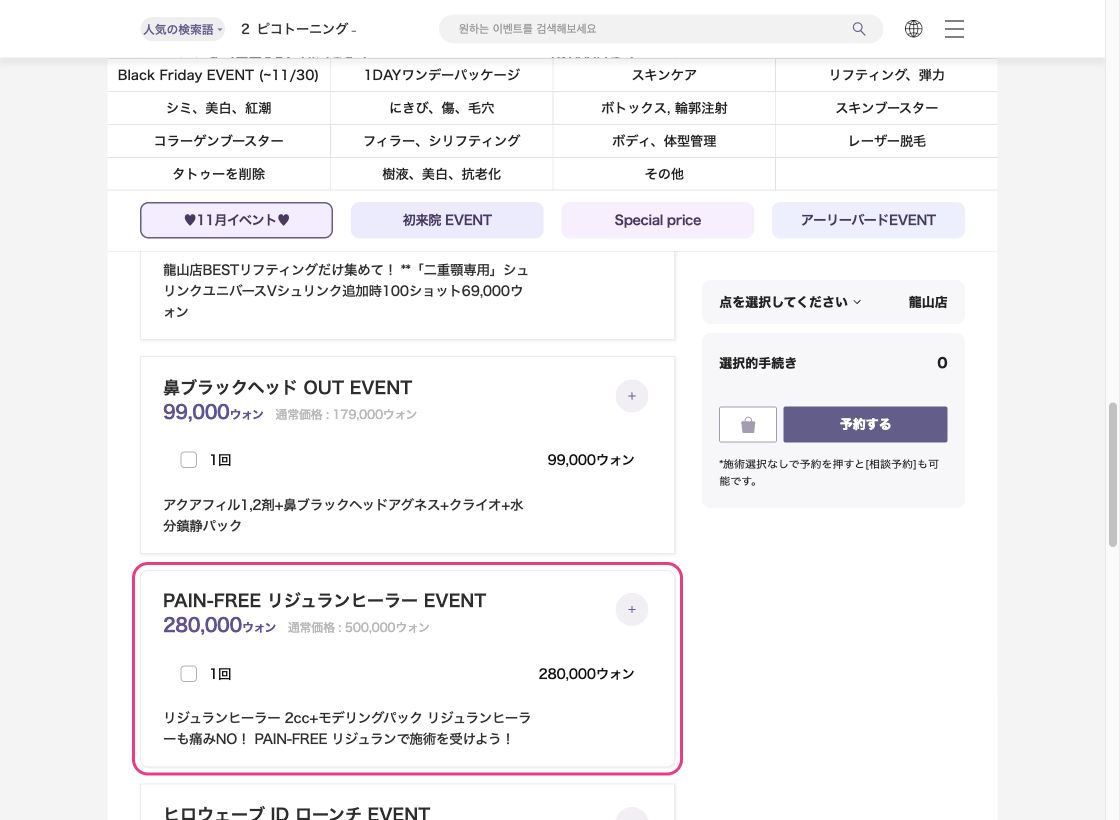
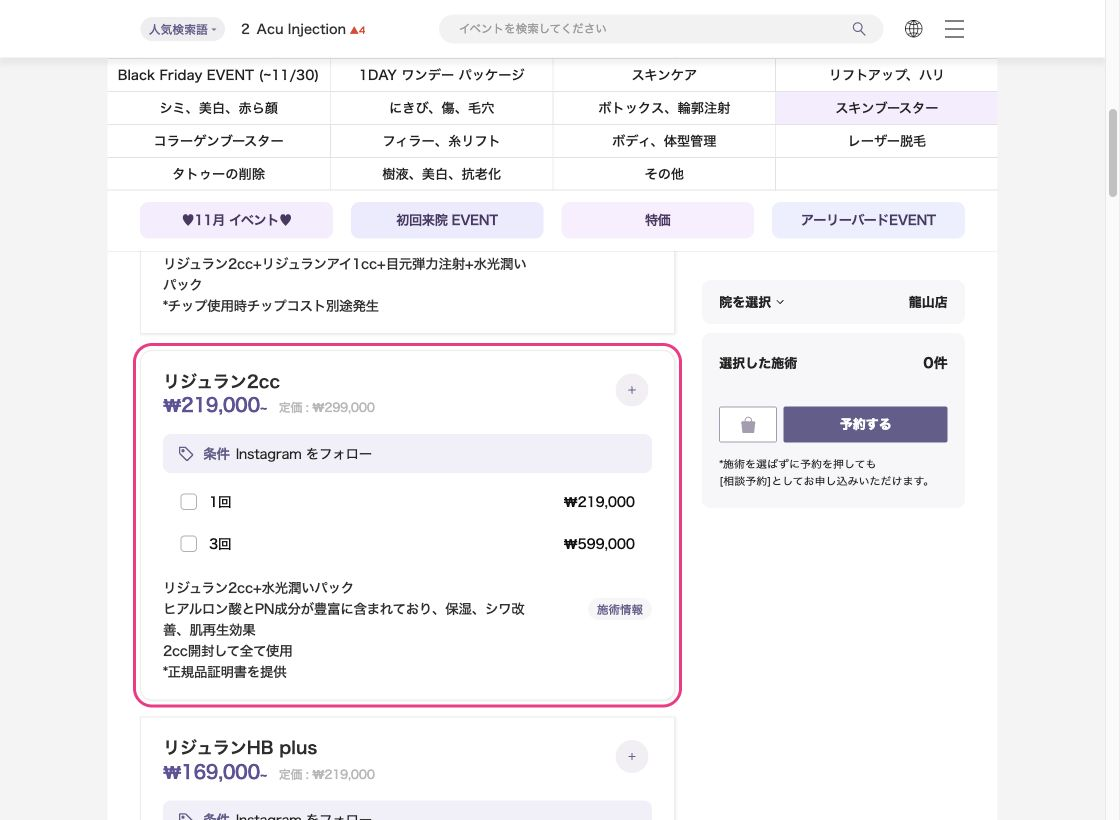
feat(proofs): complete 28/28 Beauty Lounge KO/JA proof captures across all 7 branches

diff --git a/src/data/official-proofs.ts b/src/data/official-proofs.ts
@@ -5305,14 +5305,14 @@ export const OFFICIAL_MENU_PROOFS: Record<string, OfficialMenuProof> = {
     sourceUrl: "https://beautyloungeclinic.com/",
     menuId: "rejuran-2cc",
     scope: "branch",
-    priceUrl: "https://www.beautyloungeclinic.com/ko/events?branch=yongsan&cat=evt-926",
+    priceUrl: "https://www.beautyloungeclinic.com/ko/events?branch=yongsan&cat=skinbooster",
     imageFile: "beautylounge-yongsan-rejuran-2cc.jpg",
     imageFileJa: "beautylounge-yongsan-rejuran-2cc.jpg",
-    verifiedKrw: 280000,
-    matchedText: "PAIN-FREE 리쥬란힐러 EVENT 280,000원 기존가 : 500,000원 1회 280,000원 리쥬란힐러 2cc + 모델링팩 리쥬란힐러도 통증 NO! PAIN-FREE 리쥬란으로 시술받자!",
+    verifiedKrw: 219000,
+    matchedText: "리쥬란 2cc 219,000원~ 기존가 : 299,000원 조건 카카오톡 친구 추가 1회 219,000원 3회 599,000원 리쥬란2cc + 물광촉촉팩 히알루론산과 PN성분이 풍부하게 함유되어 보습,주름개선,피부재생 효과 2cc 개봉하여 모두 사용 *정품인증서 제공 시술 정보",
     capturedDate: "2026-11-23",
     domainLabel: "beautyloungeclinic.com",
-    priceUrlJa: "https://www.beautyloungeclinic.com/ja/events?branch=yongsan&cat=collagen",
+    priceUrlJa: "https://www.beautyloungeclinic.com/ja/events?branch=yongsan&cat=skinbooster",
     domainLabelJa: "beautyloungeclinic.com"
   },
   "beautylounge-jamsil::rejuran-2cc": {
@@ -5549,14 +5549,14 @@ export const OFFICIAL_MENU_PROOFS: Record<string, OfficialMenuProof> = {
     sourceUrl: "https://beautyloungeclinic.com/",
     menuId: "potenza",
     scope: "branch",
-    priceUrl: "https://www.beautyloungeclinic.com/ko/events?branch=daechi&cat=evt-69",
+    priceUrl: "https://www.beautyloungeclinic.com/ko/events?branch=daechi&cat=evt-765",
     imageFile: "beautylounge-daechi-potenza.jpg",
     imageFileJa: "beautylounge-daechi-potenza.jpg",
-    verifiedKrw: 329000,
-    matchedText: "포텐자 다이아(DIA) 리프팅 329,000원~",
+    verifiedKrw: 189000,
+    matchedText: "포텐자 니들RF 189,000원~ 기존가 : 229,000원 조건 카카오톡 친구 추가 1회 189,000원 3회 499,000원 미세니들을 통해 진피내에서 직접 고주파 에너지를 전달, 모공, 탄력, 피부톤, 기미를 효과적으로 개선합니다.",
     capturedDate: "2026-11-23",
     domainLabel: "beautyloungeclinic.com",
-    priceUrlJa: "https://www.beautyloungeclinic.com/ja/events?branch=daechi",
+    priceUrlJa: "https://www.beautyloungeclinic.com/ja/events?branch=daechi&cat=evt-765",
     domainLabelJa: "beautyloungeclinic.com"
   },
   "beautylounge-daechi::jaw-botox": {
@@ -6028,6 +6028,174 @@ export const OFFICIAL_MENU_PROOFS: Record<string, OfficialMenuProof> = {
     matchedText: "턱 보톡스 근육을 직접 만져보고 용량 정하는 턱보톡스 19,000 ~",
     capturedDate: "2026-11-23",
     domainLabel: "ydp.drdclinic.co.kr"
+  },
+  "beautylounge-daechi::rejuran-2cc": {
+    sourceUrl: "https://beautyloungeclinic.com/",
+    menuId: "rejuran-2cc",
+    scope: "branch",
+    priceUrl: "https://www.beautyloungeclinic.com/ko/events?branch=daechi&cat=skinbooster",
+    imageFile: "beautylounge-daechi-rejuran-2cc.jpg",
+    imageFileJa: "beautylounge-daechi-rejuran-2cc.jpg",
+    verifiedKrw: 219000,
+    matchedText: "리쥬란 180,000원~ 기존가 : 200,000원 조건 카카오톡 친구 추가 리쥬란 아이 1cc 180,000원 2cc 1회 219,000원 2cc 3회 640,000원 리쥬란 + 물광촉촉팩 히알루론산과 PN성분이 풍부하게 함유되어 보습,주름개선,피부재생 효과 더마샤인 포함 가격 시술 정보",
+    capturedDate: "2026-11-23",
+    domainLabel: "beautyloungeclinic.com",
+    priceUrlJa: "https://www.beautyloungeclinic.com/ja/events?branch=daechi&cat=skinbooster",
+    domainLabelJa: "beautyloungeclinic.com"
+  },
+  "beautylounge-daechi::shrink-300": {
+    sourceUrl: "https://beautyloungeclinic.com/",
+    menuId: "shrink-300",
+    scope: "branch",
+    priceUrl: "https://www.beautyloungeclinic.com/ko/events?branch=daechi&cat=evt-69",
+    imageFile: "beautylounge-daechi-shrink-300.jpg",
+    imageFileJa: "beautylounge-daechi-shrink-300.jpg",
+    verifiedKrw: 159000,
+    matchedText: "슈링크유니버스 159,000원~ 기존가 : 190,000원 조건 카카오톡 친구 추가 300샷 1회 159,000원 300샷 3회 439,000원 600샷 1회 299,000원 600샷 3회 869,000원 슈링크리프팅 + LED + 수분진정팩 통증은 줄고, 효과는 강력해진 슈링크유니버스 울트라F : 선타입, 빈틈없는 리프팅 부스터 : 원타입, 팔자,눈가 등 굴곡진 부위",
+    capturedDate: "2026-11-23",
+    domainLabel: "beautyloungeclinic.com",
+    priceUrlJa: "https://www.beautyloungeclinic.com/ja/events?branch=daechi&cat=evt-69",
+    domainLabelJa: "beautyloungeclinic.com"
+  },
+  "beautylounge-myeongdong::rejuran-2cc": {
+    sourceUrl: "https://beautyloungeclinic.com/",
+    menuId: "rejuran-2cc",
+    scope: "branch",
+    priceUrl: "https://www.beautyloungeclinic.com/ko/events?branch=myeongdong&cat=skinbooster",
+    imageFile: "beautylounge-myeongdong-rejuran-2cc.jpg",
+    imageFileJa: "beautylounge-myeongdong-rejuran-2cc.jpg",
+    verifiedKrw: 199000,
+    matchedText: "리쥬란 (REJURAN) 2cc 199,000원~ 기존가 : 279,000원 1회 199,000원 3회 579,000원 리쥬란2cc + 물광촉촉팩 히알루론산과 PN성분이 풍부하게 함유되어 보습,주름개선,피부재생 효과 ✔눈앞 2cc 개봉하여 모두 사용 시술 정보",
+    capturedDate: "2026-11-23",
+    domainLabel: "beautyloungeclinic.com",
+    priceUrlJa: "https://www.beautyloungeclinic.com/ja/events?branch=myeongdong&cat=skinbooster",
+    domainLabelJa: "beautyloungeclinic.com"
+  },
+  "beautylounge-myeongdong::shrink-300": {
+    sourceUrl: "https://beautyloungeclinic.com/",
+    menuId: "shrink-300",
+    scope: "branch",
+    priceUrl: "https://www.beautyloungeclinic.com/ko/events?branch=myeongdong&cat=evt-69",
+    imageFile: "beautylounge-myeongdong-shrink-300.jpg",
+    imageFileJa: "beautylounge-myeongdong-shrink-300.jpg",
+    verifiedKrw: 139000,
+    matchedText: "슈링크유니버스 129,000원~ 기존가 : 180,000원 300샷 1회 139,000원 300샷 3회 399,000원 600샷 1회 259,000원 부스터 300샷 129,000원 울트라 600샷 + 부스터 300샷 + 오로라앰플 390,000원 추가 옵션 오로라앰플5cc 추가 +25,000원 슈링크유니버스 리프팅 + LED + 수분진정팩 통증은 줄고, 효과는 강력해진 슈링크유니버스 울트라",
+    capturedDate: "2026-11-23",
+    domainLabel: "beautyloungeclinic.com",
+    priceUrlJa: "https://www.beautyloungeclinic.com/ja/events?branch=myeongdong&cat=evt-69",
+    domainLabelJa: "beautyloungeclinic.com"
+  },
+  "beautylounge-bangbae::rejuran-2cc": {
+    sourceUrl: "https://beautyloungeclinic.com/",
+    menuId: "rejuran-2cc",
+    scope: "branch",
+    priceUrl: "https://www.beautyloungeclinic.com/ko/events?branch=bangbae&cat=evt-821",
+    imageFile: "beautylounge-bangbae-rejuran-2cc.jpg",
+    imageFileJa: "beautylounge-bangbae-rejuran-2cc.jpg",
+    verifiedKrw: 180000,
+    matchedText: "리쥬란 2cc 180,000원 방배점 1회 체험",
+    capturedDate: "2026-11-23",
+    domainLabel: "beautyloungeclinic.com",
+    priceUrlJa: "https://www.beautyloungeclinic.com/ja/events?branch=bangbae&cat=evt-821",
+    domainLabelJa: "beautyloungeclinic.com"
+  },
+  "beautylounge-bangbae::shrink-300": {
+    sourceUrl: "https://beautyloungeclinic.com/",
+    menuId: "shrink-300",
+    scope: "branch",
+    priceUrl: "https://www.beautyloungeclinic.com/ko/events?branch=bangbae&cat=evt-590",
+    imageFile: "beautylounge-bangbae-shrink-300.jpg",
+    imageFileJa: "beautylounge-bangbae-shrink-300.jpg",
+    verifiedKrw: 109000,
+    matchedText: "슈링크유니버스 109,000원~ 기존가 : 190,000원 조건 카카오톡 친구 추가 300샷 1회 109,000원 300샷 3회 289,000원 600샷 1회 209,000원 울트라200샷+부스터300샷 179,000원 슈링크리프팅+LED+물광촉촉팩 통증은 줄고, 효과는 강력해진 슈링크유니버스 울트라F : 선타입, 빈틈없는 리프팅 부스터 : 원타입, 팔자,눈가 등 굴곡진 부위 오로라앰플 : ",
+    capturedDate: "2026-11-23",
+    domainLabel: "beautyloungeclinic.com",
+    priceUrlJa: "https://www.beautyloungeclinic.com/ja/events?branch=bangbae&cat=evt-590",
+    domainLabelJa: "beautyloungeclinic.com"
+  },
+  "beautylounge-bangbae::potenza": {
+    sourceUrl: "https://beautyloungeclinic.com/",
+    menuId: "potenza",
+    scope: "branch",
+    priceUrl: "https://www.beautyloungeclinic.com/ko/events?branch=bangbae&cat=evt-821",
+    imageFile: "beautylounge-bangbae-potenza.jpg",
+    imageFileJa: "beautylounge-bangbae-potenza.jpg",
+    verifiedKrw: 109000,
+    matchedText: "포텐자 니들RF 109,000원 방배점 1회 체험",
+    capturedDate: "2026-11-23",
+    domainLabel: "beautyloungeclinic.com",
+    priceUrlJa: "https://www.beautyloungeclinic.com/ja/events?branch=bangbae&cat=evt-821",
+    domainLabelJa: "beautyloungeclinic.com"
+  },
+  "beautylounge-yongsan::shrink-300": {
+    sourceUrl: "https://beautyloungeclinic.com/",
+    menuId: "shrink-300",
+    scope: "branch",
+    priceUrl: "https://www.beautyloungeclinic.com/ko/events?branch=yongsan&cat=evt-109",
+    imageFile: "beautylounge-yongsan-shrink-300.jpg",
+    imageFileJa: "beautylounge-yongsan-shrink-300.jpg",
+    verifiedKrw: 129000,
+    matchedText: "슈링크유니버스 79,000원~ 기존가 : 99,000원 300샷 129,000원 600샷 239,000원 울트라300샷+부스터200샷 210,000원 아이슈링크 100샷 79,000원 슈링크리프팅 + LED + 수분진정팩 통증은 줄고, 효과는 강력해진 슈링크유니버스 울트라F : 선타입, 빈틈없는 리프팅 부스터 : 원타입, 팔자,눈가 등 굴곡진 부위",
+    capturedDate: "2026-11-23",
+    domainLabel: "beautyloungeclinic.com",
+    priceUrlJa: "https://www.beautyloungeclinic.com/ja/events?branch=yongsan&cat=evt-109",
+    domainLabelJa: "beautyloungeclinic.com"
+  },
+  "beautylounge-yongsan::potenza": {
+    sourceUrl: "https://beautyloungeclinic.com/",
+    menuId: "potenza",
+    scope: "branch",
+    priceUrl: "https://www.beautyloungeclinic.com/ko/events?branch=yongsan&cat=evt-444",
+    imageFile: "beautylounge-yongsan-potenza.jpg",
+    imageFileJa: "beautylounge-yongsan-potenza.jpg",
+    verifiedKrw: 169000,
+    matchedText: "포텐자 니들RF 169,000원~ 기존가 : 199,000원 조건 카카오톡 친구 추가 1회 169,000원 3회 439,000원 미세니들을 통해 진피내에서 직접 고주파 에너지를 전달, 모공, 탄력, 피부톤, 기미를 효과적으로 개선합니다. 포텐자 니들RF + 크라이오 + LED + 물광촉촉팩",
+    capturedDate: "2026-11-23",
+    domainLabel: "beautyloungeclinic.com",
+    priceUrlJa: "https://www.beautyloungeclinic.com/ja/events?branch=yongsan&cat=evt-444",
+    domainLabelJa: "beautyloungeclinic.com"
+  },
+  "beautylounge-hongdae::shrink-300": {
+    sourceUrl: "https://beautyloungeclinic.com/",
+    menuId: "shrink-300",
+    scope: "branch",
+    priceUrl: "https://www.beautyloungeclinic.com/ko/events?branch=hongdae&cat=evt-69",
+    imageFile: "beautylounge-hongdae-shrink-300.jpg",
+    imageFileJa: "beautylounge-hongdae-shrink-300.jpg",
+    verifiedKrw: 129000,
+    matchedText: "슈링크유니버스 119,000원~ 기존가 : 180,000원 300샷 1회 129,000원 300샷 3회 370,000원 600샷 1회 249,000원 부스터 300샷 119,000원 울트라 600샷 + 부스터 300샷 + 오로라앰플 390,000원 추가 옵션 오로라앰플5cc 추가 +25,000원 슈링크유니버스 리프팅 + LED + 수분진정팩 통증은 줄고, 효과는 강력해진 슈링크유니버스 울트라",
+    capturedDate: "2026-11-23",
+    domainLabel: "beautyloungeclinic.com",
+    priceUrlJa: "https://www.beautyloungeclinic.com/ja/events?branch=hongdae&cat=evt-69",
+    domainLabelJa: "beautyloungeclinic.com"
+  },
+  "beautylounge-myeongdong::potenza": {
+    sourceUrl: "https://beautyloungeclinic.com/",
+    menuId: "potenza",
+    scope: "branch",
+    priceUrl: "https://www.beautyloungeclinic.com/ko/reservation?branch=myeongdong",
+    imageFile: "beautylounge-myeongdong-potenza.jpg",
+    imageFileJa: "beautylounge-myeongdong-potenza.jpg",
+    verifiedKrw: 199000,
+    matchedText: "포텐자 199,000원~ 옵션 종류 / 용량 선택 니들RF 3회 539,000원 니들RF 1회 199,000원",
+    capturedDate: "2026-11-23",
+    domainLabel: "beautyloungeclinic.com",
+    priceUrlJa: "https://www.beautyloungeclinic.com/ja/reservation?branch=myeongdong",
+    domainLabelJa: "beautyloungeclinic.com"
+  },
+  "beautylounge-hongdae::potenza": {
+    sourceUrl: "https://beautyloungeclinic.com/",
+    menuId: "potenza",
+    scope: "branch",
+    priceUrl: "https://www.beautyloungeclinic.com/ko/reservation?branch=hongdae",
+    imageFile: "beautylounge-hongdae-potenza.jpg",
+    imageFileJa: "beautylounge-hongdae-potenza.jpg",
+    verifiedKrw: 199000,
+    matchedText: "포텐자 199,000원~ 옵션 종류 / 용량 선택 니들RF 3회 539,000원 니들RF 1회 199,000원",
+    capturedDate: "2026-11-23",
+    domainLabel: "beautyloungeclinic.com",
+    priceUrlJa: "https://www.beautyloungeclinic.com/ja/reservation?branch=hongdae",
+    domainLabelJa: "beautyloungeclinic.com"
   }
 };
 

diff --git a/src/lib/clinic-helpers.test.ts b/src/lib/clinic-helpers.test.ts
@@ -462,6 +462,23 @@ test('zero wrong-branch screenshots, strict branch-URL mapping, zero orphan imag
 
   assert.ok(check('uni-mokdong', 'jaw-botox').priceUrl.includes('mokuni114.co.kr'));
   assert.ok(check('beautylounge-hongdae', 'jaw-botox').priceUrl.includes('branch=hongdae'));
+  for (const branch of ['gangnam', 'daechi', 'myeongdong', 'bangbae', 'yongsan', 'jamsil', 'hongdae'] as const) {
+    const pid = `beautylounge-${branch}`;
+    for (const menuId of ['rejuran-2cc', 'shrink-300', 'potenza', 'jaw-botox'] as const) {
+      const koProof = check(pid, menuId, 'ko');
+      const jaProof = check(pid, menuId, 'ja');
+      assert.ok(koProof.imageFile, `Missing KO proof imageFile for ${pid}/${menuId}`);
+      assert.ok(jaProof.imageFile, `Missing JA proof imageFile for ${pid}/${menuId}`);
+      assert.ok(
+        koProof.priceUrl.includes(`branch=${branch}`),
+        `Expected KO priceUrl to include branch=${branch} for ${pid}/${menuId}, got ${koProof.priceUrl}`
+      );
+      assert.ok(
+        jaProof.priceUrl.includes(`branch=${branch}`),
+        `Expected JA priceUrl to include branch=${branch} for ${pid}/${menuId}, got ${jaProof.priceUrl}`
+      );
+    }
+  }
   assert.ok(check('reverse-hongdae', 'jaw-botox', 'ko').priceUrl.includes('hd.reverseclinic.com'));
   assert.ok(check('reverse-hongdae', 'jaw-botox', 'ja').priceUrl.includes('hd-jp.reverseclinic.com'));
   assert.ok(check('toxnfill-mokdong', 'jaw-botox').priceUrl.includes('toxnfill41.com'));
